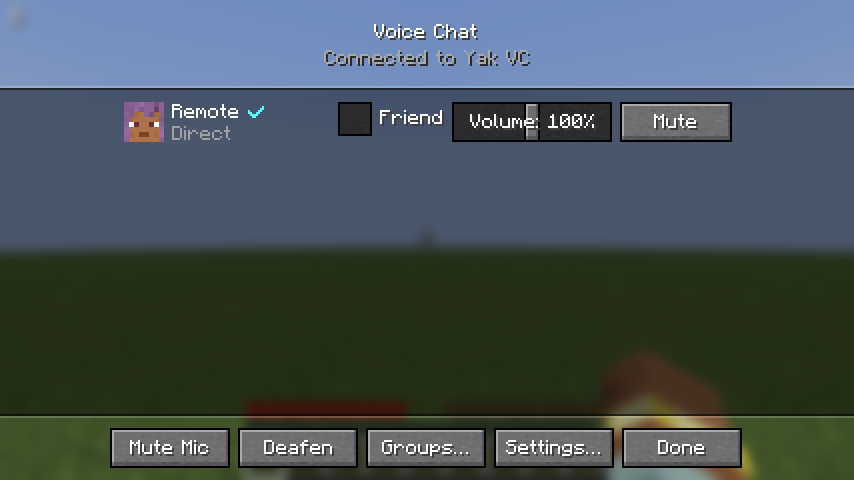
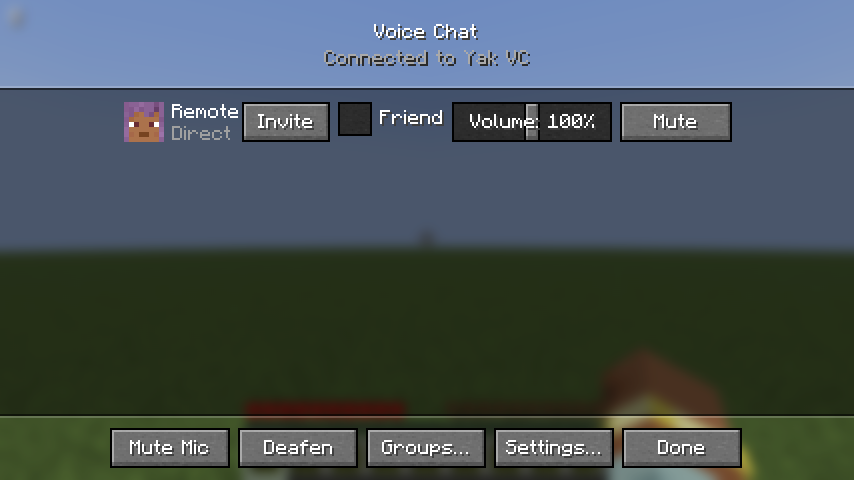
Mod: B opens the voice menu, Group on G, an Invite button in the voice menu (#232)
Open Voice Menu now defaults to B and Group (invite or accept the player
looked at) to G; neither is used by vanilla or another Yak VC bind. If a
player unbinds Group, the invite chat lines and the groups screen ask to
bind it in Controls instead of naming "Not Bound".

Each voice menu row gets an Invite button that takes the Group key's
path (GroupChat.inviteOrAccept) for any listed player, in view or not.
The gametest presses it and has the remote player accept. User guide,
DESIGN and the key-binds and voice-menu screenshots are updated.

Stacked on #231.

🤖 Generated with [Claude Code](https://claude.com/claude-code)

---------

Changed region(s): [[0.274, 0.1875, 0.3958, 0.3125]]

diff --git a/mod/src/main/java/io/github/desocketed/yakvc/ui/VoiceMenuScreen.java b/mod/src/main/java/io/github/desocketed/yakvc/ui/VoiceMenuScreen.java
@@ -38,7 +38,7 @@ import org.jspecify.annotations.Nullable;
 
 /**
  * The voice menu: voice status, mute and deafen, every other player on the server with their voice connection, a
- * friend mark, a volume slider and a mute button, saved by UUID, and the way to the settings screen.
+ * an invite to our group, a friend mark, a volume slider and a mute button, saved by UUID, and the way to the settings screen.
  */
 public final class VoiceMenuScreen extends Screen {
 	private static final int ROW_HEIGHT = 28;
@@ -249,6 +249,7 @@ public final class VoiceMenuScreen extends Screen {
 		private final VolumeSlider volume;
 		private final Button mute;
 		private final Checkbox friend;
+		private final Button invite;
 
 		PlayerRow(UUID uuid) {
 			this.uuid = uuid;
@@ -265,6 +266,10 @@ public final class VoiceMenuScreen extends Screen {
 					.tooltip(Tooltip.create(Component.translatable("yakvc.menu.friend.tooltip")))
 					.onValueChange((box, on) -> volumes.set(uuid, volumes.get(uuid).withFriend(on)))
 					.build();
+			invite = Button.builder(Component.translatable("yakvc.menu.invite"),
+					button -> feeder.groupChat().inviteOrAccept(minecraft.player, uuid))
+					.tooltip(Tooltip.create(Component.translatable("yakvc.menu.invite.tooltip")))
+					.width(44).build();
 		}
 
 		@Override
@@ -300,11 +305,14 @@ public final class VoiceMenuScreen extends Screen {
 			mute.setPosition(getContentRight() - mute.getWidth(), y + 2);
 			volume.setPosition(mute.getX() - 4 - volume.getWidth(), y + 2);
 			friend.setPosition(volume.getX() - 4 - friend.getWidth(), y + 2);
+			invite.setPosition(friend.getX() - 4 - invite.getWidth(), y + 2);
+			invite.active = !feeder.blocked(uuid) && !feeder.groupMates().contains(uuid);
 			volume.active = !feeder.blocked(uuid);
 			mute.active = !feeder.blocked(uuid);
 			volume.extractRenderState(graphics, mouseX, mouseY, a);
 			mute.extractRenderState(graphics, mouseX, mouseY, a);
 			friend.extractRenderState(graphics, mouseX, mouseY, a);
+			invite.extractRenderState(graphics, mouseX, mouseY, a);
 		}
 
 		private Component connection() {
@@ -316,12 +324,12 @@ public final class VoiceMenuScreen extends Screen {
 
 		@Override
 		public List<? extends GuiEventListener> children() {
-			return List.of(friend, volume, mute);
+			return List.of(invite, friend, volume, mute);
 		}
 
 		@Override
 		public List<? extends NarratableEntry> narratables() {
-			return List.of(friend, volume, mute);
+			return List.of(invite, friend, volume, mute);
 		}
 	}
 

diff --git a/mod/src/main/java/io/github/desocketed/yakvc/input/VoiceKeys.java b/mod/src/main/java/io/github/desocketed/yakvc/input/VoiceKeys.java
@@ -3,6 +3,7 @@ package io.github.desocketed.yakvc.input;
 import com.mojang.blaze3d.platform.InputConstants;
 import net.fabricmc.fabric.api.client.keymapping.v1.KeyMappingHelper;
 import net.minecraft.client.KeyMapping;
+import net.minecraft.network.chat.Component;
 import net.minecraft.resources.Identifier;
 
 /**
@@ -43,13 +44,13 @@ public final class VoiceKeys {
 				KeyMappingHelper.registerKeyMapping(
 						new KeyMapping("key.yakvc.push_to_talk", InputConstants.KEY_V, category)),
 				KeyMappingHelper.registerKeyMapping(
-						new KeyMapping("key.yakvc.group", InputConstants.KEY_B, category)),
+						new KeyMapping("key.yakvc.group", InputConstants.KEY_G, category)),
 				KeyMappingHelper.registerKeyMapping(
 						new KeyMapping("key.yakvc.mute", InputConstants.UNKNOWN.getValue(), category)),
 				KeyMappingHelper.registerKeyMapping(
 						new KeyMapping("key.yakvc.deafen", InputConstants.UNKNOWN.getValue(), category)),
 				KeyMappingHelper.registerKeyMapping(
-						new KeyMapping("key.yakvc.open_menu", InputConstants.UNKNOWN.getValue(), category)),
+						new KeyMapping("key.yakvc.open_menu", InputConstants.KEY_B, category)),
 				KeyMappingHelper.registerKeyMapping(
 						new KeyMapping("key.yakvc.debug_overlay", InputConstants.UNKNOWN.getValue(), category)),
 				KeyMappingHelper.registerKeyMapping(
@@ -107,5 +108,10 @@ public final class VoiceKeys {
 
 	public void setDeafened(boolean deafened) {
 		this.deafened = deafened;
+	}
+
+	/** The Group key's name for chat and status lines, or a hint to bind it if the player unbound it. */
+	public Component groupKeyName() {
+		return group.isUnbound() ? Component.translatable("yakvc.group.key_unbound") : group.getTranslatedKeyMessage();
 	}
 }

diff --git a/mod/src/gametest/java/io/github/desocketed/yakvc/gametest/YakVcClientGameTest.java b/mod/src/gametest/java/io/github/desocketed/yakvc/gametest/YakVcClientGameTest.java
@@ -544,7 +544,7 @@ public class YakVcClientGameTest implements FabricClientGameTest {
 
 	/**
 	 * The remote player invites us and the Group key, looking at them, accepts; they label the group, which the groups
-	 * screen shows; then they leave it.
+	 * screen shows; then they leave it. Then the voice menu's Invite button invites them and they accept.
 	 */
 	private static void checkGroups(ClientGameTestContext context, GameStateFeeder feeder, RemoteVoice remote,
 			UUID me) {
@@ -597,6 +597,21 @@ public class YakVcClientGameTest implements FabricClientGameTest {
 		context.runOnClient(mc -> {
 			feeder.leaveGroup();
 			mc.player.setYRot(0);
+			mc.gui.hud.getChat().clearMessages(true);
+			mc.gui.toastManager().clear();
+		});
+		context.waitFor(mc -> feeder.myGroup() == null);
+
+		// The voice menu's Invite button sends the same invite, with nobody in view.
+		context.setScreen(() -> new VoiceMenuScreen(null, feeder));
+		String invite = Component.translatable("yakvc.menu.invite").getString();
+		pressNestedButton(context, "yakvc.menu.invite", invite::equals);
+		context.waitFor(mc -> me.equals(remote.invitedBy));
+		remote.bridge.acceptInvite(remote.engine, me);
+		context.waitFor(mc -> inGroupWith(feeder, REMOTE));
+		context.setScreen(() -> null);
+		context.runOnClient(mc -> {
+			feeder.leaveGroup();
 			mc.gui.hud.getChat().clearMessages(true);
 			mc.gui.toastManager().clear();
 		});

diff --git a/mod/src/main/java/io/github/desocketed/yakvc/ui/GroupChat.java b/mod/src/main/java/io/github/desocketed/yakvc/ui/GroupChat.java
@@ -83,6 +83,14 @@ public final class GroupChat {
 			player.sendOverlayMessage(Component.translatable("yakvc.group.no_target"));
 			return;
 		}
+		inviteOrAccept(player, target);
+	}
+
+	/**
+	 * Accepts {@code target}'s invite if they sent one, and otherwise invites them, or asks them for an invite when they
+	 * are in a group we aren't in. The Group key and the voice menu's Invite button both come here.
+	 */
+	public void inviteOrAccept(LocalPlayer player, UUID target) {
 		String name = feeder.name(target);
 		VoiceGroup mine = feeder.myGroup();
 		if (mine != null && mine.members().contains(target)) {
@@ -121,13 +129,13 @@ public final class GroupChat {
 		invites.values().removeIf(at -> now - at >= INVITE_NANOS);
 		invites.put(from, now);
 		chat(Component.translatable("yakvc.group.invite", feeder.name(from),
-				feeder.keys().group.getTranslatedKeyMessage()));
+				feeder.keys().groupKeyName()));
 	}
 
 	/** {@code from} asked us to invite them: says so in chat, with the key that does. */
 	public void inviteRequested(UUID from) {
 		chat(Component.translatable("yakvc.group.request", feeder.name(from),
-				feeder.keys().group.getTranslatedKeyMessage()));
+				feeder.keys().groupKeyName()));
 	}
 
 	/** Whether {@code from} sent us an invite we haven't accepted. For tests. */

diff --git a/mod/src/gametest/java/io/github/desocketed/yakvc/gametest/RemoteVoice.java b/mod/src/gametest/java/io/github/desocketed/yakvc/gametest/RemoteVoice.java
@@ -23,6 +23,8 @@ final class RemoteVoice implements AutoCloseable {
 	final MemorySegment engine;
 	private final Thread poller;
 	private volatile boolean closed;
+	/** Who last invited the remote player to a group. */
+	volatile UUID invitedBy;
 
 	RemoteVoice(UUID uuid, String name, UUID localPlayer) throws IOException {
 		Path dir = FabricLoader.getInstance().getGameDir().resolve("remote-voice");
@@ -44,6 +46,7 @@ final class RemoteVoice implements AutoCloseable {
 				for (EngineEvent event : EngineEvent.decode(buf, written)) {
 					// No Mojang account: the dev rendezvous gives a dev ticket anyway.
 					if (event instanceof EngineEvent.JoinRequest join) bridge.completeJoin(engine, join.id(), false);
+					if (event instanceof EngineEvent.Invite invite) invitedBy = invite.from();
 				}
 			}
 			try {

diff --git a/mod/src/main/java/io/github/desocketed/yakvc/ui/GroupsScreen.java b/mod/src/main/java/io/github/desocketed/yakvc/ui/GroupsScreen.java
@@ -144,7 +144,7 @@ public final class GroupsScreen extends Screen {
 		if (error != null) return error.copy().withStyle(ChatFormatting.RED);
 		boolean inGroup = !shown.isEmpty() && shown.getFirst().mine();
 		Component status = inGroup ? Component.translatable("yakvc.groups.status.in")
-				: Component.translatable("yakvc.groups.status.none", feeder.keys().group.getTranslatedKeyMessage());
+				: Component.translatable("yakvc.groups.status.none", feeder.keys().groupKeyName());
 		return status.copy().withStyle(ChatFormatting.GRAY);
 	}
 

diff --git a/docs/DESIGN.md b/docs/DESIGN.md
@@ -318,11 +318,11 @@ Voice is 48 kHz mono Opus in 20 ms frames, sent as unreliable QUIC datagrams on 
 
 **Group voice chat (#28)**
 
-Players in a group hear each other at any distance, and only each other: a member is out of proximity voice until it leaves. A group forms when one player invites another and that player accepts, each by looking at the other and pressing the Group key (B). A player can also start a public group alone from the groups screen (Create Public Group, `yakvc_create_group`), which others then join from the list. Groups have no name, no password and no leader: every member has the same rights, and the voice menu shows a group as the faces of its members. They need nothing on the server: they live in the peers' messages to each other. (Reworked from named, password-protected groups by the maintainer, 2026-10-09.)
+Players in a group hear each other at any distance, and only each other: a member is out of proximity voice until it leaves. A group forms when one player invites another and that player accepts, each by looking at the other and pressing the Group key (G). A player can also start a public group alone from the groups screen (Create Public Group, `yakvc_create_group`), which others then join from the list. Groups have no name, no password and no leader: every member has the same rights, and the voice menu shows a group as the faces of its members. They need nothing on the server: they live in the peers' messages to each other. (Reworked from named, password-protected groups by the maintainer, 2026-10-09.)
 
 - **Key.** A group is a random 32-byte key `K`, made by the client that starts it. Its id is `SHA-256("yakvc-group-id-v2" ‖ K)`. A member's proof is `SHA-256("yakvc-group-member-v2" ‖ K ‖ member UUID)`. Members hold the same `K`, so none of them has any power the others lack.
-- **Invite and accept.** Pressing B while looking at a player (a narrow cone around the crosshair over the players in view) accepts that player's pending invite if there is one, and otherwise invites them (`yakvc_invite`): `Invite { key, state }` on the control stream, with our group's `K` and state. A client not in a group sends a new key that it doesn't join yet, so it stays in proximity voice; it joins once the invitee's announcement proves that key, and keeps offering the same key for 2 minutes. The invitee sees "Steve invited you to a group" in chat; accepting (`yakvc_accept_invite`) leaves its own group and takes the invite's `K` and state. Invites expire after 2 minutes. Both players must be in view of each other, which is the point: a group is made face to face.
-- **Invite requests.** Pressing B at a player who announces a group we aren't in asks them for an invite instead (`InviteRequest` on the control stream, voice version 5; `yakvc_invite` reports which it sent): "Invite requested from Steve". They see "Alex requests an invite to your group" and answer by pressing B at us, which sends the ordinary invite even if we are in a group of our own by then; an invite we asked for is joined at once, even from a player the setting below would not let invite us. A request is heard only in a group, from a player who may invite us under the setting below and isn't muted, once per player for 2 minutes, and sent once while it lasts; after 2 minutes unanswered the asker sees "Steve didn't answer your invite request".
+- **Invite and accept.** Pressing Group while looking at a player (a narrow cone around the crosshair over the players in view) accepts that player's pending invite if there is one, and otherwise invites them (`yakvc_invite`): `Invite { key, state }` on the control stream, with our group's `K` and state. A client not in a group sends a new key that it doesn't join yet, so it stays in proximity voice; it joins once the invitee's announcement proves that key, and keeps offering the same key for 2 minutes. The invitee sees "Steve invited you to a group" in chat; accepting (`yakvc_accept_invite`) leaves its own group and takes the invite's `K` and state. Invites expire after 2 minutes. With the Group key both players must be in view of each other, so a group is made face to face; the voice menu's Invite button on a player's row takes the same path (`GroupChat.inviteOrAccept`) for anyone listed, in view or not (maintainer, 2026-11-27).
+- **Invite requests.** Pressing Group at a player who announces a group we aren't in asks them for an invite instead (`InviteRequest` on the control stream, voice version 5; `yakvc_invite` reports which it sent): "Invite requested from Steve". They see "Alex requests an invite to your group" and answer by pressing Group at us, which sends the ordinary invite even if we are in a group of our own by then; an invite we asked for is joined at once, even from a player the setting below would not let invite us. A request is heard only in a group, from a player who may invite us under the setting below and isn't muted, once per player for 2 minutes, and sent once while it lasts; after 2 minutes unanswered the asker sees "Steve didn't answer your invite request".
 - **Who may invite us:** `invites = "everyone" | "friends" | "nobody"` (default everyone; friends are the `friends` list, the players marked Friend in the voice menu, so with none marked nobody counts as a friend). Invites from anyone else are dropped, and so are invites from muted players; `everyone` still respects `friends_only` (a boolean: only friends are heard and sent to). An invite is sent again once if the link to its target reconnects within the 2 minutes. A pending key is joined whenever an announcement proves it, even after the 2 minutes.
 - **Announcements.** Each client tells every peer which group it is in: `Group(Option<GroupAnnounce { proof, public: Option<PublicGroup { key, label } > }>)`, sent when a link opens and on every change. A private group's announcement is only the proof, which nobody without `K` can check or link to a group, so a private group is invisible outside it. A public group's announcement adds `K` itself and the label: public means anyone may join. A peer is a **group mate** when its proof checks out against our `K` and the UUID its link verified. When the last group mate goes (it left, or its link closed) and the group has no label, we leave it too: an unnamed group is just the players in it, while a named one is a place to come back to. A new group with no mates yet is kept, since nobody has left it.
 - **Shared state.** `GroupState { version, public, label, by }` (`by` is who made that version, so every member breaks ties the same way and the toast can name them) goes to group mates when they become mates and on every change. Any member may change it: making the group public or private, or setting the optional label (up to 32 characters; empty by default). The highest `(version, sender UUID)` wins and is passed on to the other mates, so it reaches members without a direct link to the one who changed it. Each change shows as a toast ("Steve made the group public"). Notices come only for changes made by others; `Left` also covers a mate whose link closed. Joining a public group from the list starts from a placeholder state (version 0), which the members' real state replaces.
@@ -446,8 +446,8 @@ Names below use Mojang's official mappings, which Fabric uses from 26.1 on (Mine
 | `VoiceSession` | Per-connection lifecycle on `ClientPlayConnectionEvents` JOIN/DISCONNECT; Voice stays off until the server-data packet arrives (5 s timeout), so the MOTD opt-out is checked first; with no mixin, the packet is detected by `ServerData.motd` being replaced with a new object. It also stays off while `Minecraft.computeChatAbilities().restrictions()` contains `ChatRestriction.DISABLED_BY_PROFILE` or `DISABLED_BY_LAUNCHER` (`respect_chat_restrictions`; these replaced the older `getChatStatus()` API). The identity is worked out by `GameStateFeeder` every tick: the connection's game profile during a session (it differs from the launcher account on offline-mode servers) and the launcher account otherwise, sent only when it changes, so leaving an offline-mode server restores the account (#67) |
 | `GameStateFeeder` | On `END_CLIENT_TICK`: the identity (see `VoiceSession`); listener pose from the camera; tracked players from `level.players()`, minus spectators; tab-list diff from `getOnlinePlayers()`; local spectator state as an input flag; players blocked in Social Interactions (`PlayerSocialManager.isBlocked(UUID)`, checked once a second) are muted and also left out of the world snapshot, so no voice flows either way (`mute_blocked_players`); per-player volume and mute changes; the Voice volume as `getFinalSoundSourceVolume(VOICE)`, i.e. Voice × Master; the game's sound device; another mod's voice sink from Fabric Loader's object share (`yakvc:voice_sink`), when its address changes; push to native; then drain events and answer joins. Each step runs on its own, so one failing call can't skip the rest; a value the engine rejects is not resent until it changes. An engine panic disables voice and destroys the engine |
 | `SessionJoiner` | Handles `JoinRequest` events on a virtual thread via authlib's `SessionService.joinServer` (see authentication step 5). It tracks the game's login window itself, from `ClientLoginConnectionEvents.INIT` until `ClientConfigurationConnectionEvents.INIT` or login `DISCONNECT` (a `VoiceSession` only exists after login), and refuses inside it; the engine's auth backoff retries from 10 s. A login that starts while a voice join is in flight waits for it, up to 5 s, except for a local server (singleplayer or LAN host, `Minecraft.isLocalServer()`), where the game never calls `joinServer` over its memory connection: `ClientLoginConnectionEvents.INIT` fires before the game sends its hello, so the game's own `joinServer` lands last. Any `AuthenticationException` (unreachable, invalid credentials, banned) means `ok = false`. The access token stays inside authlib and is never logged. The result goes back through `GameStateFeeder`, which calls `completeJoin` on the client thread |
-| `input` | Keybinds via `KeyMappingHelper`: push-to-talk (default `V`, unused by vanilla; 26.3 uses SDL scancodes, `InputConstants.KEY_V`); mute, deafen and open voice menu are unbound by default to avoid clashing with minimap and utility mods; the pause menu gets a microphone button next to "Back to Game" (`ScreenEvents.AFTER_INIT`, placed from that button's position) that opens the voice menu. Settings are reached from a "Voice Chat…" row added to vanilla's Music & Sounds options (Fabric `ScreenEvents.AFTER_INIT` appends it to the screen's `OptionsList`, no mixin), from the voice menu, or from Mod Menu's config button when Mod Menu is installed (an optional compile-only dependency; Mod Menu is on the dev and gametest runtime classpath only, and the gametest clicks through its real config button) |
-| `ui` | `VoiceMenuScreen`: voice status, one row per online player (face, connection state, talking icon, 0–200 % volume, mute), and mute mic, deafen, groups and settings buttons; the first time it opens, a setup card at the top offers who may invite you to a group and the activation mode, and dismissing it sets `setup_done` in settings.json (a modpack can ship that set); `GroupsScreen`: public groups and our own as boxes of member faces with the optional label, join, leave, public or private, and the label; `GroupChat` puts invites in chat and other members' changes in toasts; `VoiceKeys` adds Group (B: invite or accept the player looked at); verified players get a check-mark badge after their name (icon-font `U+E004`), also shown beside the talking indicator. Members of our own group get a group badge (icon-font `U+E006`, two people) after their name in the voice menu, after the speaker in the HUD's talking list and over their head, talking or not; nothing shows for anyone else, or in no group. `VoiceSettingsScreen` applies each change at once, like the game's own options (slider drags coalesced to one `yakvc_update_config` every 2 ticks, about 100 ms; a pending one applies when the screen closes), and saves settings.json after each change the engine accepts; a rejected change shows the toast and reopens the screen from the config in effect, and the setup card's choices apply the same way. It has an Account section with your own state (verified, unverified or not connected) and the "Only Verified Players" toggle (`verified_only`); activation (push to talk or voice), range, bitrate, the noise filter (`noise_suppression`), Mic Volume (`input_gain`, a 0–400 % slider though the engine takes up to 10), input and output devices from `yakvc_list_devices`, listed once per open on a worker thread (`GameStateFeeder.listDevices`) with the pickers disabled and showing "Loading…" until the list lands on the client thread (that is the one engine call made off the client thread: it touches no engine state, the FFI last error is per thread, and `GameStateFeeder.close` holds a lock against it so destroy stays the last call), Spatial Audio (`spatial_audio`: off, simple or full, mod-only; see the acoustics), and a privacy section with the IP note, Group Invites (`invites`), relay-only (applies after a restart, because the engine builds its endpoint once; until then its button reads "On/Off after restart"), `respect_chat_restrictions` and `mute_blocked_players`, then a Developer section (always shown for now, one method so it can be hidden) with the debug overlay toggle, Sound Tuning and Test Sound. `TalkingIndicator` draws a speaker above talking players' name tags through `LevelRenderEvents.COLLECT_SUBMITS` and vanilla's `submitNameTag` (no mixin). The HUD shows mic and deafen icons, and the connection icon only when not registered, with text only when something is wrong; the mic turns grey with "No microphone" when no `MicLevel` has arrived for a second (#63). Icons are a small bitmap font (`assets/yakvc/font/icons.json`). `DebugOverlay` (key "Toggle Debug Overlay", unbound by default, or the toggle in the settings' Developer section, not saved) draws an F3-style panel: rendezvous and ticket (time left in whole hours, then minutes in the last hour, #118), account, endpoint and our voice protocol version, devices, level, sending, effective bitrate, overruns and underruns, and per peer the path, its voice protocol version when it differs from ours (such a peer also shows "Different version" in the voice menu, with a tooltip and a one-time toast per server session saying who needs to update, naming the release when the update check found one), RTT, loss, late packets and jitter-buffer delay, from `yakvc_stats` polled 4 times a second while it is shown. `VoiceToasts` shows failures: unsupported platform, native load or ABI mismatch, engine start failure, engine panic, and rejected settings. `EngineErrorToasts` shows the engine's `Error` events (a device that can't open or stopped working, a failed sign-in) as toasts of their own, queued one after another rather than replacing each other (#116); each message shows at most once every 5 minutes (#63). Group notices have a toast slot of their own (5 s, a newer one replaces the older). The other toasts share one slot Group Invites offers everyone, friends and nobody; Friends Only (`friends_only`) limits voice to the players marked Friend in the voice menu rows, kept in players.json beside volume and mute and sent to the engine as `friends`. Voice Activation Threshold (`vad_threshold_db`), Reverb and Echo (`acoustics.reverb_level`, `acoustics.echo_level`, shown with Spatial Audio on Full) are sliders too, and the Account section has the Voice Server box (`server`, a code from `yakvc-server code`, applied on close, taking effect after a restart). The menu status and the account line follow the live state while open; players.json is rewritten only when a volume or mute changed. |
+| `input` | Keybinds via `KeyMappingHelper`: push-to-talk (default `V`, unused by vanilla; 26.3 uses SDL scancodes, `InputConstants.KEY_V`); open voice menu defaults to `B` and Group to `G` (both unused by vanilla); mute and deafen are unbound by default to avoid clashing with minimap and utility mods; chat and the groups screen name the Group key or, if a player unbound it, ask to bind it in Controls; the pause menu gets a microphone button next to "Back to Game" (`ScreenEvents.AFTER_INIT`, placed from that button's position) that opens the voice menu. Settings are reached from a "Voice Chat…" row added to vanilla's Music & Sounds options (Fabric `ScreenEvents.AFTER_INIT` appends it to the screen's `OptionsList`, no mixin), from the voice menu, or from Mod Menu's config button when Mod Menu is installed (an optional compile-only dependency; Mod Menu is on the dev and gametest runtime classpath only, and the gametest clicks through its real config button) |
+| `ui` | `VoiceMenuScreen`: voice status, one row per online player (face, connection state, talking icon, Invite, 0–200 % volume, mute), and mute mic, deafen, groups and settings buttons; the first time it opens, a setup card at the top offers who may invite you to a group and the activation mode, and dismissing it sets `setup_done` in settings.json (a modpack can ship that set); `GroupsScreen`: public groups and our own as boxes of member faces with the optional label, join, leave, public or private, and the label; `GroupChat` puts invites in chat and other members' changes in toasts; `VoiceKeys` adds Group (G: invite or accept the player looked at); verified players get a check-mark badge after their name (icon-font `U+E004`), also shown beside the talking indicator. Members of our own group get a group badge (icon-font `U+E006`, two people) after their name in the voice menu, after the speaker in the HUD's talking list and over their head, talking or not; nothing shows for anyone else, or in no group. `VoiceSettingsScreen` applies each change at once, like the game's own options (slider drags coalesced to one `yakvc_update_config` every 2 ticks, about 100 ms; a pending one applies when the screen closes), and saves settings.json after each change the engine accepts; a rejected change shows the toast and reopens the screen from the config in effect, and the setup card's choices apply the same way. It has an Account section with your own state (verified, unverified or not connected) and the "Only Verified Players" toggle (`verified_only`); activation (push to talk or voice), range, bitrate, the noise filter (`noise_suppression`), Mic Volume (`input_gain`, a 0–400 % slider though the engine takes up to 10), input and output devices from `yakvc_list_devices`, listed once per open on a worker thread (`GameStateFeeder.listDevices`) with the pickers disabled and showing "Loading…" until the list lands on the client thread (that is the one engine call made off the client thread: it touches no engine state, the FFI last error is per thread, and `GameStateFeeder.close` holds a lock against it so destroy stays the last call), Spatial Audio (`spatial_audio`: off, simple or full, mod-only; see the acoustics), and a privacy section with the IP note, Group Invites (`invites`), relay-only (applies after a restart, because the engine builds its endpoint once; until then its button reads "On/Off after restart"), `respect_chat_restrictions` and `mute_blocked_players`, then a Developer section (always shown for now, one method so it can be hidden) with the debug overlay toggle, Sound Tuning and Test Sound. `TalkingIndicator` draws a speaker above talking players' name tags through `LevelRenderEvents.COLLECT_SUBMITS` and vanilla's `submitNameTag` (no mixin). The HUD shows mic and deafen icons, and the connection icon only when not registered, with text only when something is wrong; the mic turns grey with "No microphone" when no `MicLevel` has arrived for a second (#63). Icons are a small bitmap font (`assets/yakvc/font/icons.json`). `DebugOverlay` (key "Toggle Debug Overlay", unbound by default, or the toggle in the settings' Developer section, not saved) draws an F3-style panel: rendezvous and ticket (time left in whole hours, then minutes in the last hour, #118), account, endpoint and our voice protocol version, devices, level, sending, effective bitrate, overruns and underruns, and per peer the path, its voice protocol version when it differs from ours (such a peer also shows "Different version" in the voice menu, with a tooltip and a one-time toast per server session saying who needs to update, naming the release when the update check found one), RTT, loss, late packets and jitter-buffer delay, from `yakvc_stats` polled 4 times a second while it is shown. `VoiceToasts` shows failures: unsupported platform, native load or ABI mismatch, engine start failure, engine panic, and rejected settings. `EngineErrorToasts` shows the engine's `Error` events (a device that can't open or stopped working, a failed sign-in) as toasts of their own, queued one after another rather than replacing each other (#116); each message shows at most once every 5 minutes (#63). Group notices have a toast slot of their own (5 s, a newer one replaces the older). The other toasts share one slot Group Invites offers everyone, friends and nobody; Friends Only (`friends_only`) limits voice to the players marked Friend in the voice menu rows, kept in players.json beside volume and mute and sent to the engine as `friends`. Voice Activation Threshold (`vad_threshold_db`), Reverb and Echo (`acoustics.reverb_level`, `acoustics.echo_level`, shown with Spatial Audio on Full) are sliders too, and the Account section has the Voice Server box (`server`, a code from `yakvc-server code`, applied on close, taking effect after a restart). The menu status and the account line follow the live state while open; players.json is rewritten only when a volume or mute changed. |
 | `config` | `Settings`, a record of every setting, kept in `config/yakvc/settings.json` with Gson and written whole: a partial file, such as a modpack's preset (`{"setup_done": true, "check_for_updates": false}`), takes the defaults for the keys it leaves out, and unknown keys are dropped on the next save. The keys are the engine's own snake-case names (`voice_range`, `audio.input_gain`, `acoustics.reverb_level`), so one vocabulary covers the guide, the file and the engine; the mod-only keys (`spatial_audio`, `setup_done`, `check_for_updates`, `respect_chat_restrictions`, `mute_blocked_players`, the mod's half of `acoustics`) live beside the engine's, and the dev keys (`dev_mode`, `dev`) and the self-hosting keys (`rendezvous`, `trusted_issuers`, in their current shape until #135) are hidden keys no screen shows, which xtask and the gametest write as a partial preset. The engine and the ABI are unchanged: `Settings.engineToml` writes the engine's keys as TOML text for `yakvc_create` and `yakvc_update_config`, with `voice_range` capped by the render distance (the saved range stays), and a unit test hands that text to the real engine so a wrong emitter fails CI. A change goes through `yakvc_update_config` and is saved only if the engine accepts it. The file is written with the defaults on first start; `client.toml` is no longer read and not migrated (pre-1.0), only pointed out in the log. Includes `respect_chat_restrictions` and `mute_blocked_players`, both default `true` and both can be turned off, and `verified_only` (default `false`), and `invites` (default `"everyone"`). The settings screen picks the microphone and speakers from dropdown lists and shows a live microphone level meter, fed by the `MicLevel` event the engine sends whenever the microphone delivers audio, with `vad_threshold_db` marked on it; the level is measured after `input_gain`, as voice activation is, so the meter shows what Mic Volume does. Per-player volume and mute are kept by UUID in `config/yakvc/players.json`. Both files are written atomically (a temporary file, then an atomic move), so a crash mid-save leaves the old contents (#68); entries are checked one by one on load, bad ones are dropped with a warning and volumes are clamped to 0–2 (the menu's range). A `dev` object (needs `dev_mode`) gives test audio instead of devices: `tone_hz` uses a tone source, `wav` a looping WAV file (`cargo xtask session --talk <name> --talk-file <wav>` sets it) and `null_output` a null sink, for headless runs. Separately, the engine lists built-in test inputs after the real microphones (`TEST_INPUTS`: clicks, noise bursts, a sweep, beeps and a tone, generated at a speech-like −18 dBFS peak, each suited to hearing an effect), opened by their `yakvc:test-` id as any microphone is and needing no `dev_mode`; the settings offer them under Test Sound in their Developer section, and the Microphone list leaves them out unless one is in use, and `--talk <name>` alone picks the beeps |
 
 Fabric API events are preferred over mixins, and there is one: Fabric API has no event for a model's pose, so `PlayerModelMixin` injects at the tail of `PlayerModel.setupAnim(AvatarRenderState)` to move a talking player's head with their voice (`speaking_heads`, on by default, the Speaking Heads toggle beside Spatial Audio). The render state carries the entity id, which the level resolves to the player's UUID. `HeadMotion`, pure and unit-tested, turns the engine's `Speech` events into angles added to the head's own: a nod through a damped spring (3.5 Hz, damping ratio 0.45) kicked on each syllable onset (the level 6 dB over its recent average, at most every 150 ms), harder when the pitch rises above the speaker's usual with it (a pitch accent); a slow sway in yaw and roll, two unrelated sines per axis, scaled by loudness; and a slight raise of the head as the pitch climbs, full at 6 semitones over the speaker's usual. Everything is scaled by an envelope of the level (attack 80 ms, release 200 ms) that falls to rest 150 ms after the last event. Only a standing pose moves.

diff --git a/docs/USER_GUIDE.md b/docs/USER_GUIDE.md
@@ -40,14 +40,14 @@ The keys are in Options → Controls → Key Binds, under **Yak VC**.
 | Key | Default | What it does |
 | --- | --- | --- |
 | Push to Talk | V | Hold to talk. |
-| Group | B | Look at a player and press it to invite them to a [group](#groups), or to accept their invite. |
+| Group | G | Look at a player and press it to invite them to a [group](#groups), or to accept their invite. |
 | Toggle Mute | not bound | Turns your microphone off and on. |
 | Toggle Deafen | not bound | Stops you hearing anyone. Your microphone still works unless you mute it too. |
-| Open Voice Menu | not bound | Opens the [voice menu](#the-voice-menu), and from there the settings. The pause menu has a button for it too. |
+| Open Voice Menu | B | Opens the [voice menu](#the-voice-menu), and from there the settings. The pause menu has a button for it too. |
 | Toggle Debug Overlay | not bound | Shows or hides the [debug overlay](#the-debug-overlay). |
 | Open Sound Tuning | not bound | Opens [Sound Tuning](#sound-tuning) straight from the game, handy while someone talks. |
 
-Mute, deafen, the voice menu, the debug overlay and sound tuning are unbound so they don't clash with other mods. The settings are always reachable without a key, from **Voice Chat…** in the game's Music & Sounds options (see [Settings](#settings)).
+Mute, deafen, the debug overlay and sound tuning are unbound so they don't clash with other mods. The settings are always reachable without a key, from **Voice Chat…** in the game's Music & Sounds options (see [Settings](#settings)).
 
 ## The HUD
 
@@ -112,7 +112,7 @@ At the bottom: **Mute Mic**, **Deafen**, **Groups…**, **Settings…** and **Do
 
 Players in a group hear each other wherever they are on the server, as if standing next to each other, without direction, and only each other: while you are in a group, players near you who aren't in it don't hear you, and you don't hear them. Push to Talk (or *Voice* activation) works the same as outside a group.
 
-**Making a group.** Look at a player and press **Group** (B). They see in chat that you invited them, for example *Steve invited you to a group. Look at them and press B.* When they look at you and press their Group key within two minutes, you are both in the group. Anyone in a group can invite more players the same way, and accepting an invite leaves the group you were in. A group is made face to face, so the player has to be in view; who may invite you is the **Group Invites** setting.
+**Making a group.** Look at a player and press **Group** (G). They see in chat that you invited them, for example *Steve invited you to a group. Look at them and press G.* When they look at you and press their Group key within two minutes, you are both in the group. The voice menu has an **Invite** button on each player's row that does the same without looking at them. Anyone in a group can invite more players the same way, and accepting an invite leaves the group you were in. A group is made face to face, so the player has to be in view; who may invite you is the **Group Invites** setting.
 
 ![An invite in chat](guide/group-invite.png)
 
